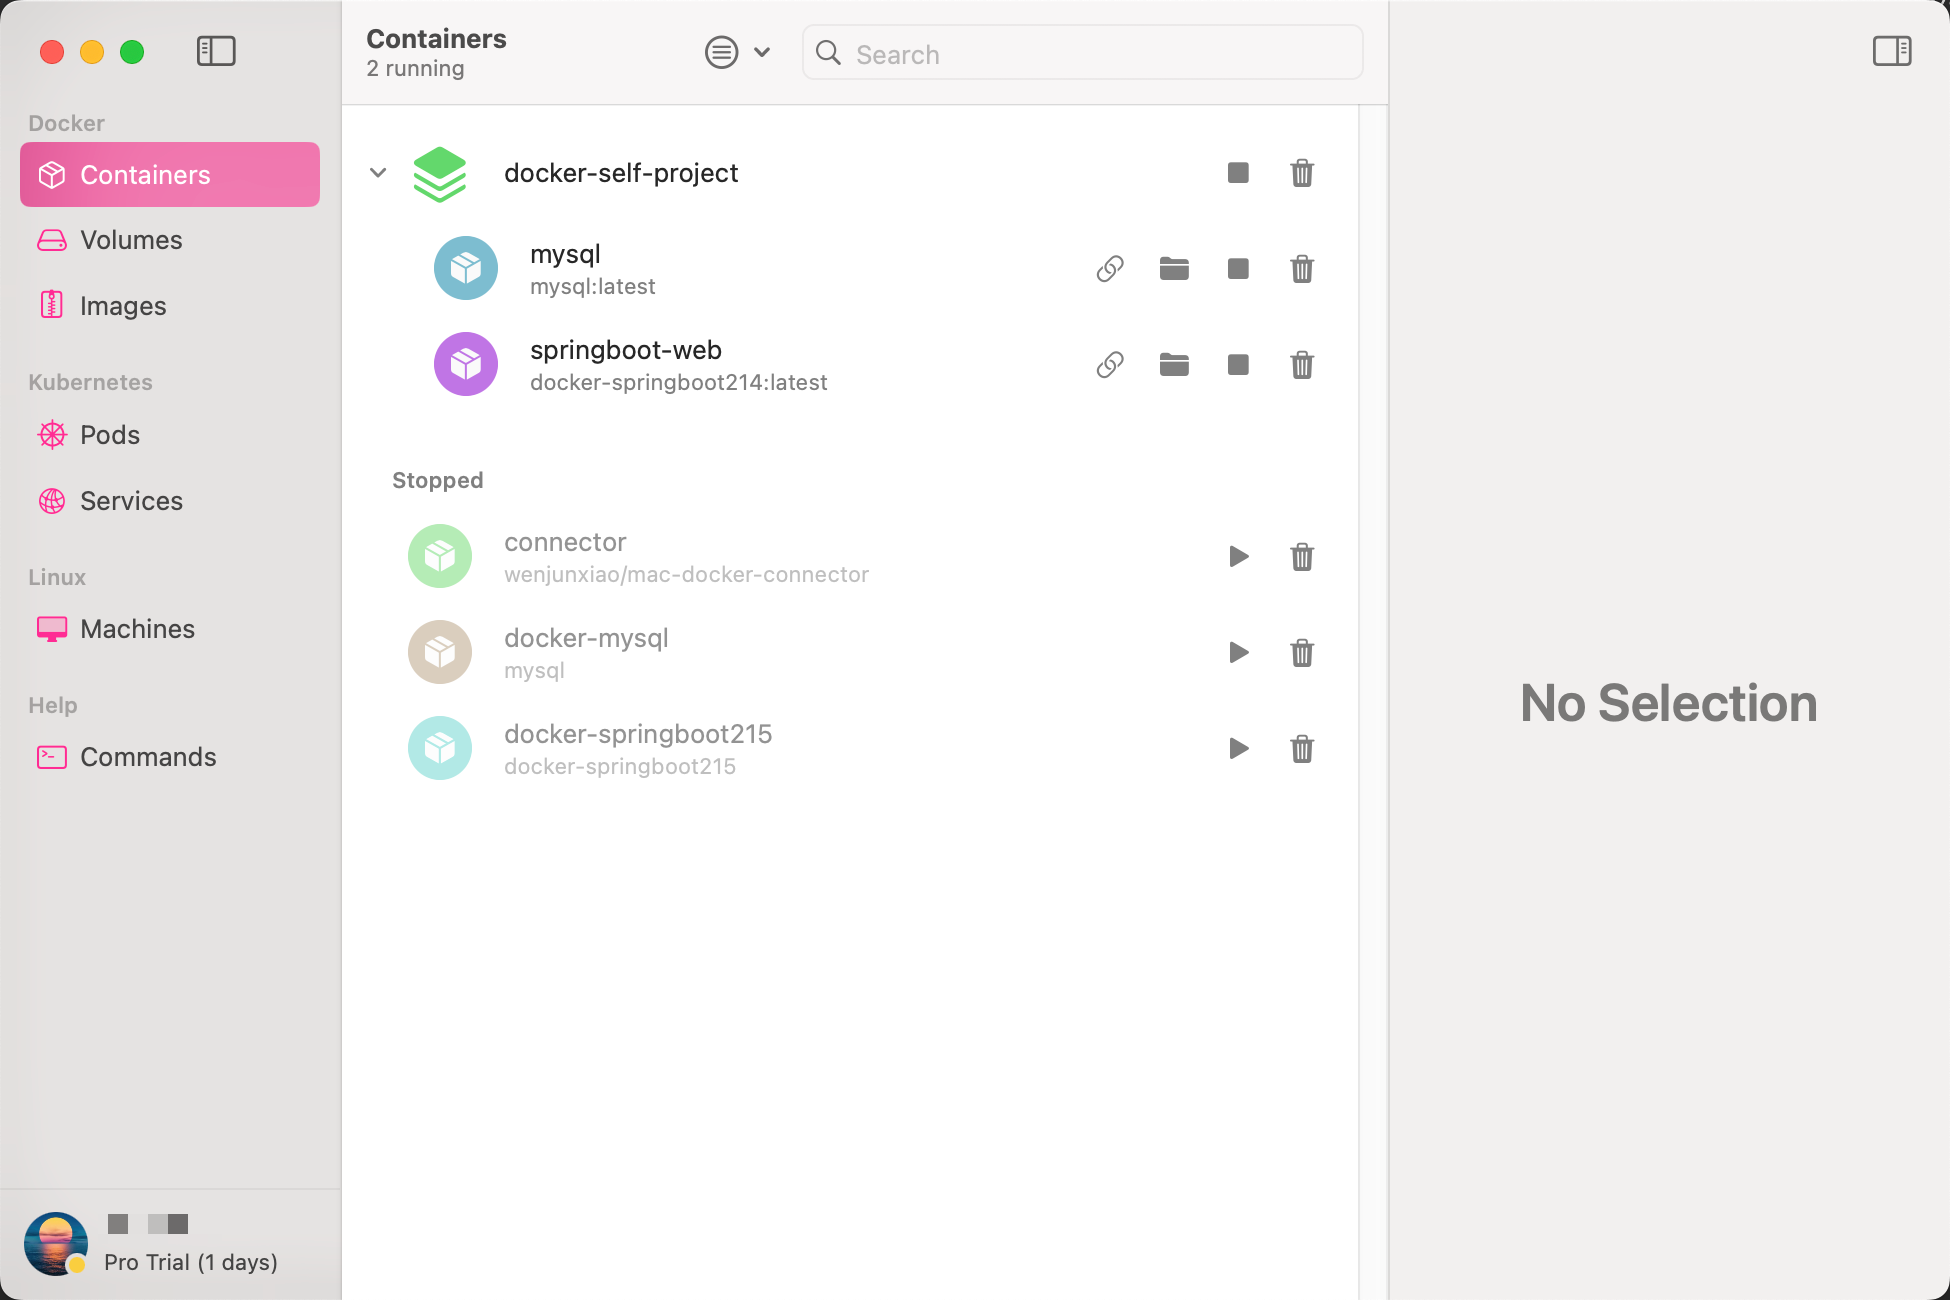
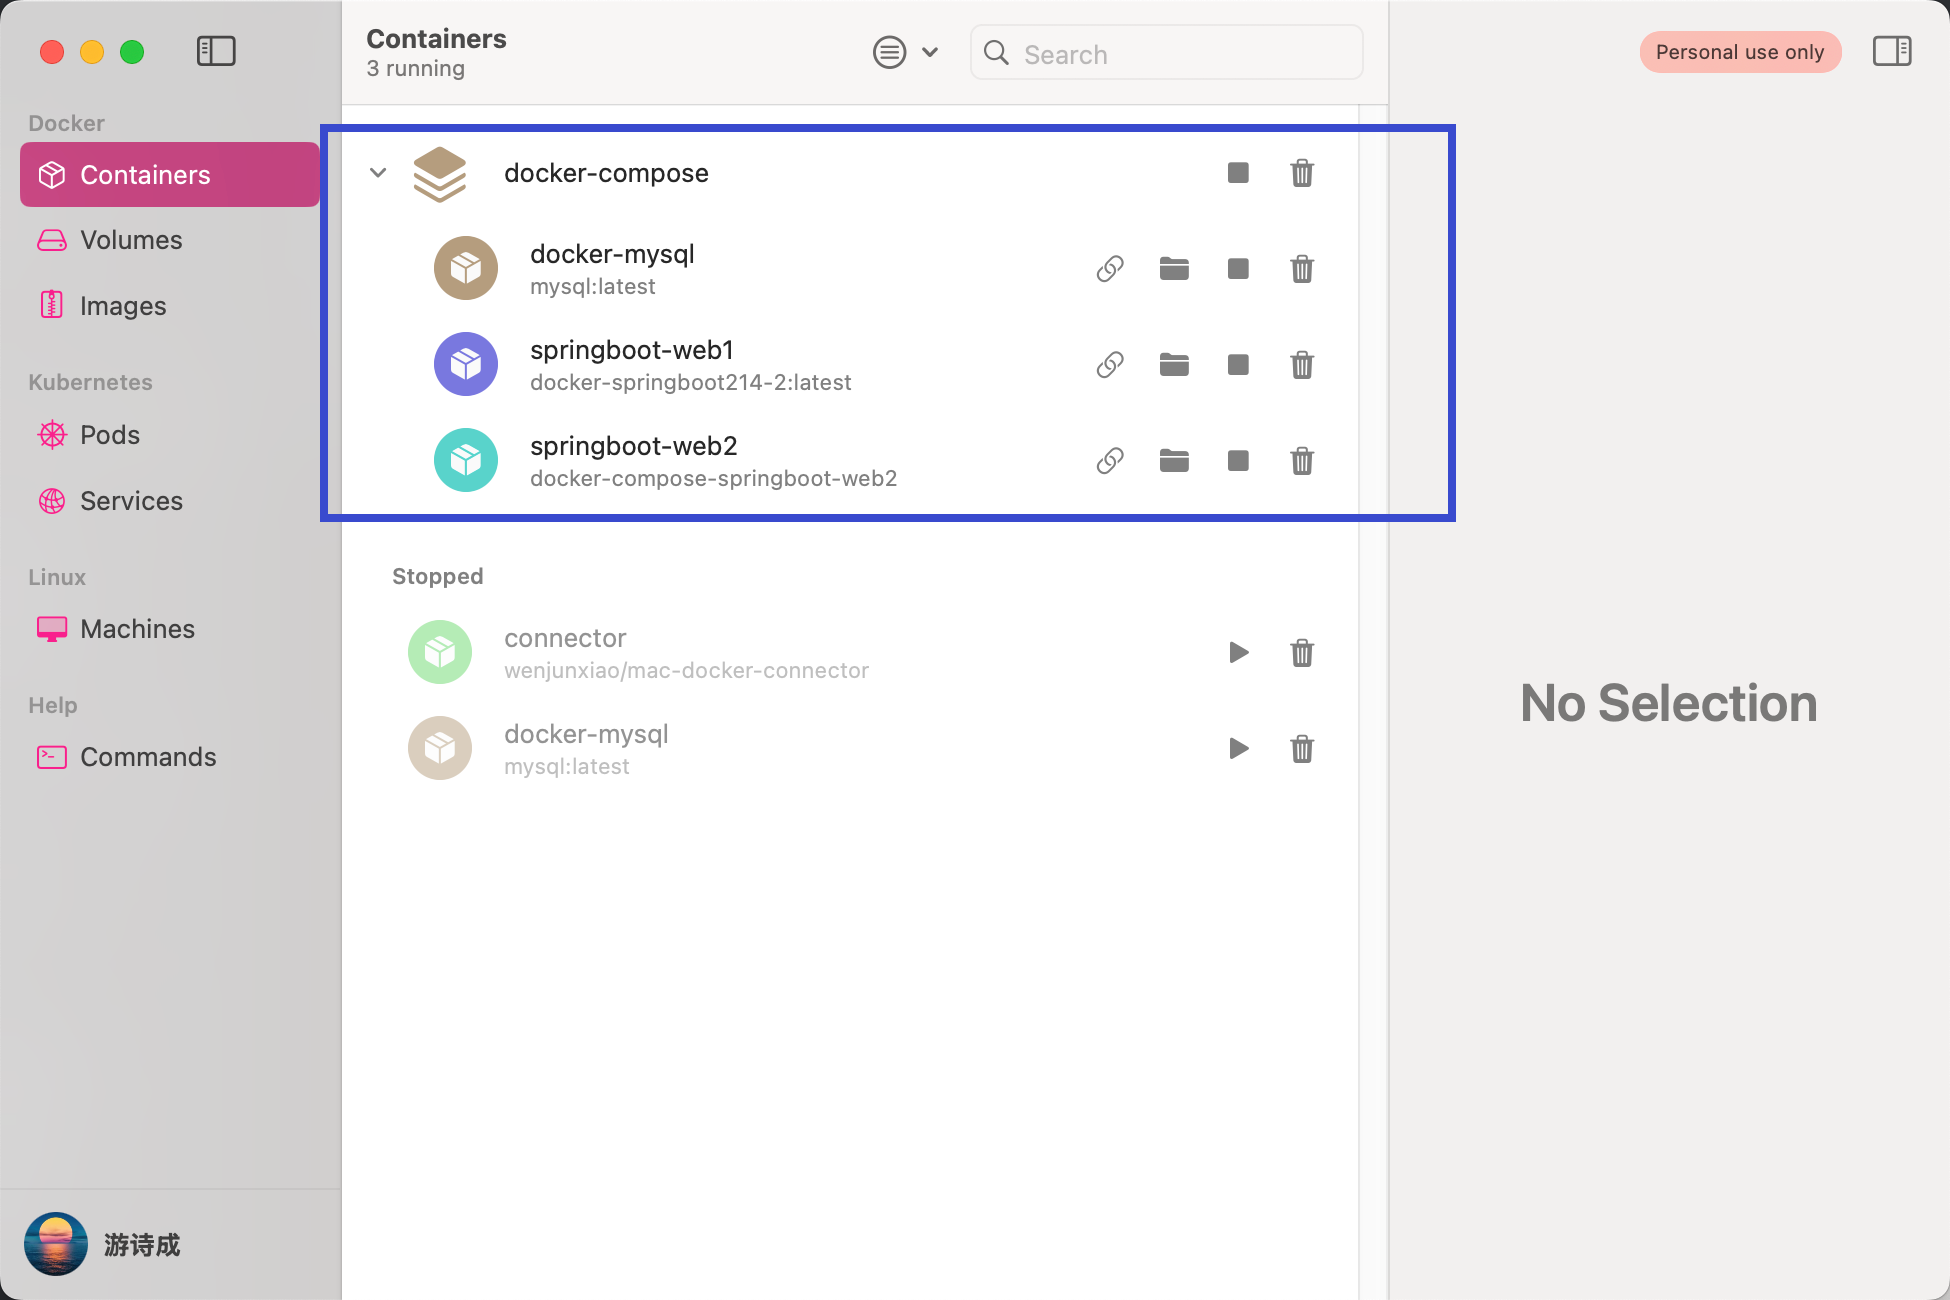
代码提交，无重大版本更迭

diff --git a/SpringBoot前沿技术栈/20_Docker/Mac/Mac-Docker-使用OrbStack.md b/SpringBoot前沿技术栈/20_Docker/Mac/Mac-Docker-使用OrbStack.md
@@ -37,7 +37,7 @@
    docker pull openjdk:23    
    
    # 打包 mysql 容器
-   docker run -d -p 3306:3306 --name docker-mysql -v /mydata:/var/lib/mysql -e MYSQL_ROOT_PASSWORD=123456 mysql:latest
+   docker run -d -p 3306:3306 --name docker-mysql -v /mydata:/var/lib/mysql  -e MYSQL_ROOT_PASSWORD=123456 mysql:latest
      -d : 表示以守护进程（后台）模式启动容器。
      -p 3306:3306 : 第一个3306是指mysql这个服务的端口为3306；第二个3306是容器里运行环境开放的端口
      --name docker-mysql : 表示取的运行容器的名字
@@ -46,12 +46,16 @@
                                  这样做的好处是可以持久化 MySQL 数据库的数据，即使容器停止或删除后，数据仍然保留在宿主机上。
      -e MYSQL_ROOT_PASSWORD=123456 : 设置mysql初始密码
      mysql:latest : 就是容器运行的来源镜像
+     
+     在docker内有个“数据卷持久化”的概念，也就是我们常说的“数据挂载”。
+     它的作用是，将宿主机上的数据与容器内的数据形成映射，实现数据的共享或者数据的保存；
+     当删除容器的时候，在宿主机上仍然能够保留文件目录，这就是Volume，数据卷。
    ```
 ### 3、SpringBoot项目Docker打包部署
 
 #### 3.1、查看 mysql 容器的ip地址
    ```dockerignore
-   查看ip地址的目的在于，通常我们会在SpringBoot项目的yml配置文件中配置redis、mysql等参数，因此需要获取到它们在容器内的ip地址。
+   # 查看ip地址的目的在于，通常我们会在SpringBoot项目的yml配置文件中配置redis、mysql等参数，因此需要获取到它们在容器内的ip地址。
    
    方法一：docker inspect [容器名称] | grep IPAddress
    方法二：docker exec -it [容器名称] /bin/bash
@@ -60,10 +64,8 @@
 
 #### 3.2、将 SpringBoot 项目利用 Maven 等工具打成 Jar 包(docker-springboot.jar)。并将 Jar 包移动到自定义的数据卷目录下【这个数据卷目录可随意，例如：/tmp】
 
-#### 3.3、制作 Dockerfile 文件
+#### 3.3_1、制作 Dockerfile 文件（在项目目录(即：数据卷目录)下创建Dockerfile文件）
    ```dockerignore
-   # 在项目目录(即：数据卷目录)下创建Dockerfile文件，文件内容为：
-   
    # 指定基础镜像：仓库是java，tag是23
    FROM openjdk:23
    # 定义匿名数据卷。相当于数据存档点，可以有多个，方便回到想要的数据存档点
@@ -72,9 +74,32 @@
    EXPOSE 8080
    # 当前路径下通配符匹配的jar包改名并复制到容器里为app.jar
    ADD *.jar app.jar
-   # 容器启动时要执行的命令--启动Java命令
-   # 这里使用的脚本关键字 'CMD'、'ENTRYPOINT' 都能达到相同效果，但还是有差异语法的存在，这里不细究
+   # 容器启动时要执行的命令 -- 启动Java命令
+   # 这里使用的脚本关键字 'CMD'、'ENTRYPOINT' 都能达到相同效果，但还是有差异语法的存在
+   # CMD	    指定容器创建时的默认命令。（可以被覆盖）
+   # ENTRYPOINT	设置容器创建时的主要命令。（不可被覆盖）
    ENTRYPOINT ["java", "-jar", "/app.jar", "-Dfile.encoding=utf-8"]
+   ```
+
+#### 3.3_2、Dockerfile 中 ARG 与 ENV 指令的区别
+   ```dockerignore
+   # ARG指令用于定义构建参数。它允许在构建映像时从外部传递参数。
+   # 使用ARG指令来声明参数，还可以在后续的Dockerfile指令中使用这些参数。
+   ARG VAR_A=5
+   # 可以引用 ARG 指令定义的参数
+   # 或者直接重新定义VAR_A值： CMD ["java", "-jar", "/app.jar", "-DVAR_A=8"]
+   
+   # ENV指令用于设置环境变量。它允许在构建映像时定义环境变量（不能从外部传递），并在容器运行时保持这些变量的值。
+   # 这些变量在容器运行时是可用的，并且可以在容器内部的任何进程中使用
+   ENV VAR_B $VAR_A
+   
+   # 场景：希望在容器运行时也可以获取到从外部传递的参数：结合 ARG、ENV 指令来实现
+   docker build --build-arg VAR_A=yunsheng -t argtest:4.0.0 .
+   CMD echo "My variable is $VAR_B"
+   
+   ARG指令定义的参数仅在构建映像期间可用，而ENV指令定义的环境变量在容器运行时可用。
+   ARG指令可以在FROM指令之前使用，但ENV指令则不能。
+   这是因为FROM指令之前的任何指令都在构建上下文中执行，而FROM指令之后的指令则在新的构建阶段中执行。
    ```
 
 #### 3.4、把制作 Dockerfile 文件放入 Jar 包的同级目录（即项目目录[数据卷目录]），并制作镜像
@@ -103,41 +128,129 @@
    ```
 
 ### 4、MacOS无法连接docker容器解决方案
-   1. 首先 Mac 端通过 brew 安装 docker-connector
+   4.1. 首先 Mac 端通过 brew 安装 docker-connector
    ```dockerignore
    brew install wenjunxiao/brew/docker-connector
    ```
 
-   2. 然后执行以下命令把 docker 的所有 bridge 网络都添加到路由中
+   4.2. 然后执行以下命令把 docker 的所有 bridge 网络都添加到路由中
    ```dockerignore
    # 注意：/tmp/docker-connector.conf 是宿主机的可自定义路径地址
    docker network ls --filter driver=bridge --format "{{.ID}}" | xargs docker network inspect --format "route {{range .IPAM.Config}}{{.Subnet}}{{end}}" >> /tmp/docker-connector.conf
    ```
-   
-   3. 配置完成，直接启动服务（需要 sudo，路由配置启动之后仍然可以修改，并且无需重启服务立即生效）
+
+   4.3. 配置完成，直接启动服务（需要 sudo，路由配置启动之后仍然可以修改，并且无需重启服务立即生效）
    ```dockerignore
    sudo brew services start docker-connector
    ```
-   4. 然后使用以下命令在 docker 端运行 wenjunxiao/mac-docker-connector，需要使用 host 网络，并且允许 NET_ADMIN
+   4.4. 然后使用以下命令在 docker 端运行 wenjunxiao/mac-docker-connector，需要使用 host 网络，并且允许 NET_ADMIN
    ```dockerignore
    docker run -it -d --restart always --net host --cap-add NET_ADMIN --name connector wenjunxiao/mac-docker-connector
    ```
 - ![img_1.png](../Mac/mac-img/img_1.png)
 
 
-### 5、docker-compose 的诸多优点：brew install docker-compose
-在单个主机上建立多个隔离环境，Compose 使用项目名称将环境彼此隔离。您可以在多个不同的上下文中使用此项目名称。默认项目名称是项目目录的基本名称。您可以使用-p 命令行选项或 COMPOSE_PROJECT_NAME 环境变量设置自定义项目名称 。默认项目目录是 Compose 文件的基本目录。可以使用--project-directory 命令行选项自定义项目目录。
-创建容器时保留卷数据
-仅重新创建已更改的容器，当您重新启动未更改的服务时，Compose 会使用现有容器。
-变量在环境之间组合重复使用
+### 5、docker-compose
+#### 5.1 Compose 简介
+    Compose 可以在单个主机上建立多个隔离环境，每个环境都可以配置多个所需的容器。这样就能一键启动环境的服务，避免手动一个一个启动服务。
+    Compose 使用项目名称将环境彼此隔离。默认项目名称是项目目录的基本名称。可以使用-p 命令行选项或 COMPOSE_PROJECT_NAME 环境变量设置自定义项目名称。
+    还可以使用 --project-directory 命令行选项自定义项目目录。
+    通过 Compose，您可以使用 YML 文件来配置应用程序需要的所有服务。然后，使用一个命令，就可以从 YML 文件配置中创建并启动所有服务。
+
+    总结：docker-compose 就是用来整合多个容器在一个环境中，便于启动管理。
+
+#### 5.2 Compose 安装
+   ```dockerignore
+   # 安装 docker-compose
+   brew install docker-compose
+   
+   # 查看版本
+   docker-compose --version 
+   ```
 
 
-docker network create --subnet=x.x.x.0/24 netBridgeName  创建自定义网桥
-运行容器并指定IP地址 docker run -itd --network=netBridgeName --ip x.x.x.8 --name dockerName imageName
+#### 5.3 Compose 简单使用语法
+   ```dockerignore
+   # 创建 docker-compose.yml 文件
+   
+   # 使用当前支持的最新版本
+   # version: '3'    # 这个不是Docker Compose工具本身的版本，而是Docker Compose文件格式的版本。目前使用不需要再声明了，可以注释不写。
+   services:          # 定义的服务列表，每个服务对应一个容器
+     # 服务名称，这里自定义了一个名为 springboot-web1 的服务
+     springboot-web1: 
+       # 基于已有的镜像来制作容器
+       image: docker-springboot214-2:latest 
+       # container_name: docker-compose-springboot # 直接使用容器
+       ports: # 端口映射
+        - "8080:8080"
+       # 容器数据卷映射
+       volumes:
+         - ../Docker-Volumes/project-volume:/tmp/data
+       # depends_on 标签解决了从上到下启动容器的依赖先后的问题。但并不保证其依赖的服务完全初始化完成，只是保证先启动。
+       depends_on:
+         - docker-mysql
+       #command: ['echo', 'hello world']
+       container_name: Docker214
+   
+     # 服务名称，这里自定义了一个名为 springboot-web2 的服务
+     springboot-web2: 
+       # 除了可以基于指定的镜像，还可以基于一份Dockerfile。需要指定 Dockerfile所在文件夹的路径
+       build:         
+         context: ../Docker-Images/docker-compose-build
+         dockerfile: Dockerfile
+         args:
+          - buildno=1
+          - password=secret
+       ports: # 端口映射
+        - "8081:8081"
+       # 容器数据卷映射
+       volumes:
+         - ../Docker-Volumes/project-volume:/tmp/data
+       # depends_on 标签解决了从上到下启动容器的依赖先后的问题。但并不保证其依赖的服务完全初始化完成，只是保证先启动。
+       depends_on:
+         - docker-mysql
+       #command: ['echo', 'hello world']
+       container_name: Docker215
+   
+     docker-mysql:
+       image: mysql:latest
+       ports:
+         - "3306:3306"
+       environment:
+         MYSQL_ROOT_PASSWORD: '123456'
+         MYSQL_ALLOW_EMPTY_PASSWORD: 'no'
+       # 定义该服务网络
+       networks: 
+         mynet:
+           ipv4_address: 192.168.214.2  # 指定Ip
+
+   # 配置 docker 服务列表网络
+   networks: 
+     mynet:  # mynet是自定义的网络名称
+       ipam:
+         config:
+           - subnet: "192.168.214.0/24" # subnet是网络号段
+   ```
+   > ### 进入 docker-compose.yml 文件所在目录的终端执行命令
+   > #### 启动 Compose： docker-compose up -d   
+   > #### 查看启动状态：docker-compose ps   
+   > #### 查看服务启动日志：docker-compose logs [服务名]
+   
+   - ![img_2.png](../Mac/mac-img/img_2.png)
 
 
+## 扩展知识
 
+   #### 1、不使用 docker-compose 也能定义网桥，并指定容器的运行Ip
+   ```dockerignore
+   # 创建名称为'netBridgeName'的自定义网桥
+   docker network create --subnet=x.x.x.0/24 netBridgeName   
+   # 运行容器并指定IP地址 
+   docker run -itd --network=netBridgeName --ip x.x.x.x --name [容器名] [镜像名]
+   ```
 
-
-
-当镜像为 latest 时，希望知道该镜像的具体版本号时，通过命令：docker image inspect [镜像名称]:latest | grep -i version
+   #### 2、当镜像为 latest 时，如何知道该镜像的具体版本号
+   ```dockerignore
+   # 使用以下命令查看镜像的具体版本号
+   docker image inspect [镜像名称]:latest | grep -i version
+   ```
